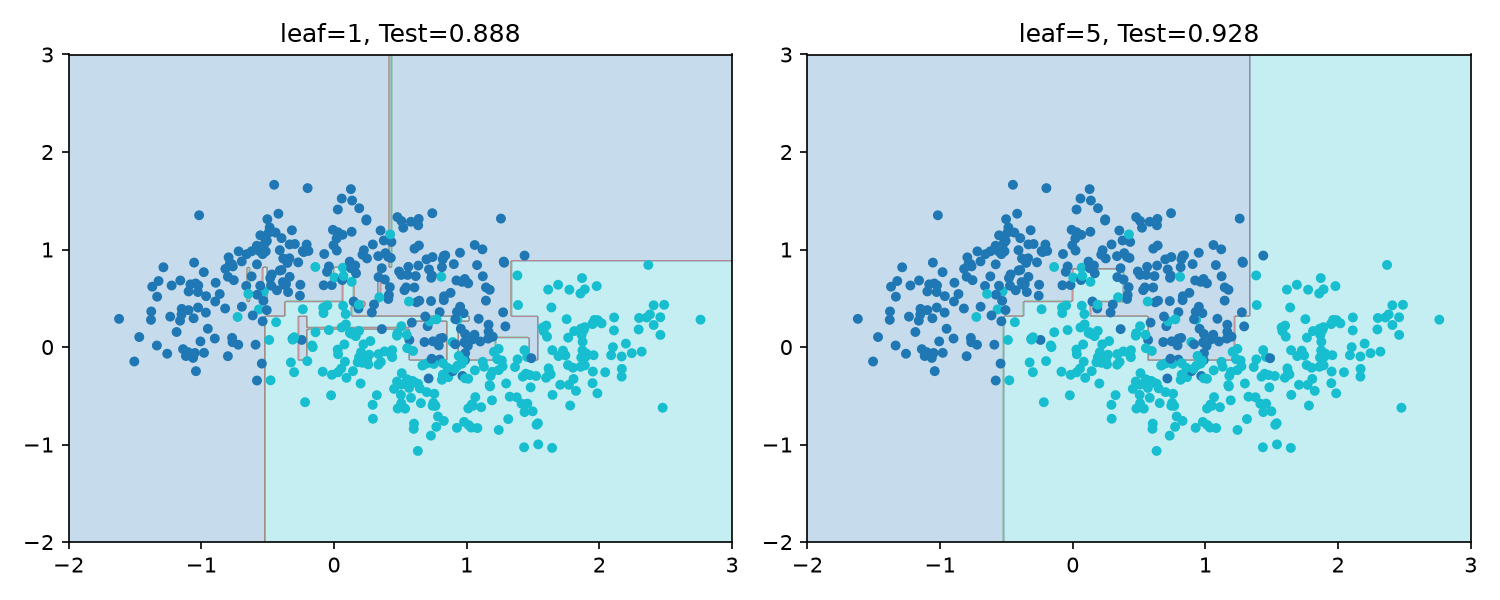
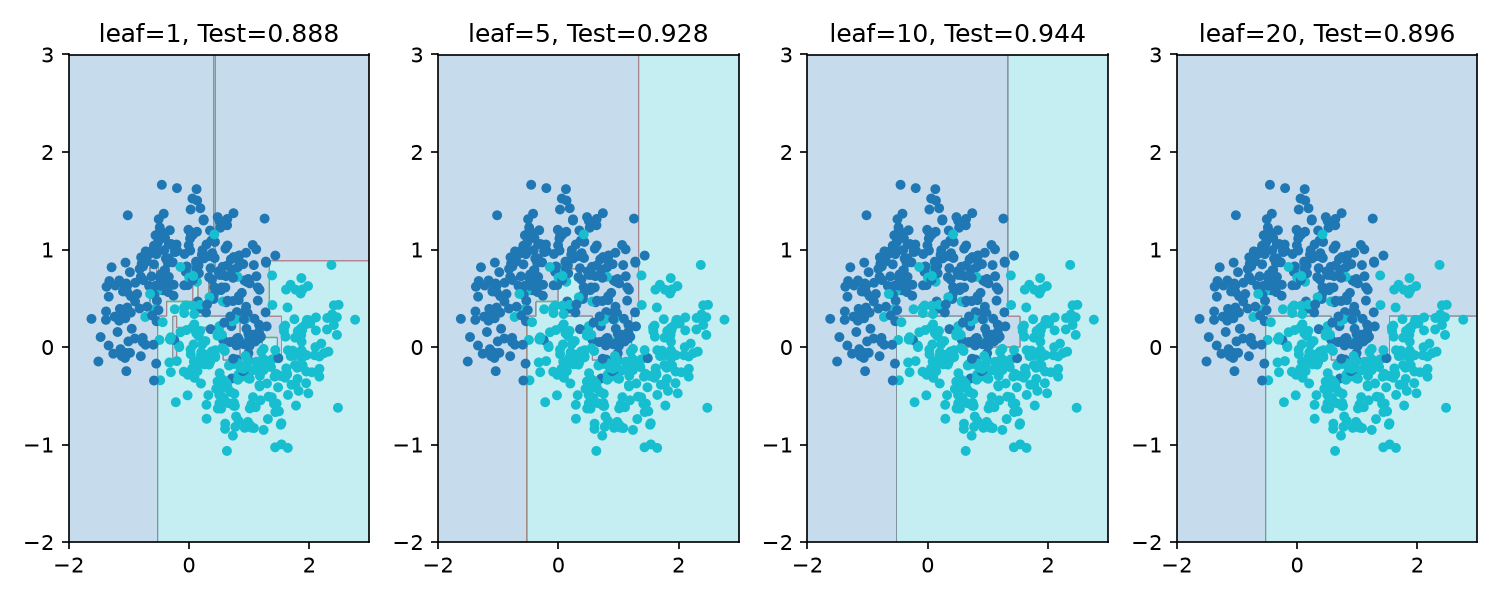
2_6 erldeigt

diff --git a/exercises/02_supervised_learning/exercise_2_6_tree_moons.py b/exercises/02_supervised_learning/exercise_2_6_tree_moons.py
@@ -1,33 +1,66 @@
-"""Exercise 2.6: Entscheidungsbaum auf Moons.
+"""Exercise 2.6: 
+    Recall the moons example from Section 1.3 and use a DecisionTreeClassifier 
+    classification to distinguish the clusters and plot the decision splits.
 
-Aufgabenstellung: Klassifiziere die Moons mit DecisionTreeClassifier, plotte die
-Entscheidungsregionen und untersuche den Einfluss von min_samples_leaf = 5.
+    Play around with the parameters, e.g. min_samples_leaf = 5 and see how 
+    this influences the score for a test set.
+
 
 Aufruf: pdm run python exercises/02_supervised_learning/exercise_2_6_tree_moons.py
+Ergebnisse: exercise 2_6
 """
 
 import os
 from pathlib import Path
-os.environ["MPLBACKEND"] = "Agg"; os.environ["MPLCONFIGDIR"] = str(Path("results/.matplotlib").resolve())
+
+os.environ["MPLBACKEND"] = "Agg"
+os.environ["MPLCONFIGDIR"] = str(Path("results/.matplotlib").resolve())
+
 import matplotlib.pyplot as plt
 import numpy as np
 from sklearn.datasets import make_moons
 from sklearn.model_selection import train_test_split
 from sklearn.tree import DecisionTreeClassifier
 
-RESULTS = Path("results/exercise_2_6"); SEED = 6020
+RESULTS = Path("results/exercise_2_6")
+SEED = 6020
 
 
 def main():
-    RESULTS.mkdir(parents=True, exist_ok=True); data, labels = make_moons(n_samples=500, noise=0.30, random_state=SEED)
-    train_x, test_x, train_y, test_y = train_test_split(data, labels, stratify=labels, random_state=SEED)
-    grid = np.linspace(-2, 3, 300); xx, yy = np.meshgrid(grid, grid); fig, axes = plt.subplots(1, 2, figsize=(10, 4))
-    for axis, leaf in zip(axes, (1, 5)):
-        model = DecisionTreeClassifier(min_samples_leaf=leaf, random_state=SEED).fit(train_x, train_y)
-        score = model.score(test_x, test_y); print(f"min_samples_leaf={leaf}: Test-Accuracy = {score:.3f}")
-        axis.contourf(xx, yy, model.predict(np.c_[xx.ravel(), yy.ravel()]).reshape(xx.shape), alpha=.25, cmap="tab10")
-        axis.scatter(data[:, 0], data[:, 1], c=labels, cmap="tab10", s=14); axis.set_title(f"leaf={leaf}, Test={score:.3f}")
-    fig.tight_layout(); fig.savefig(RESULTS / "trees.png", dpi=150); plt.close(fig)
+    RESULTS.mkdir(parents=True, exist_ok=True)
+
+    data, labels = make_moons(n_samples=500, noise=0.30, random_state=SEED)
+    train_x, test_x, train_y, test_y = train_test_split(
+        data,
+        labels,
+        stratify=labels,
+        random_state=SEED,
+    )
+
+    grid = np.linspace(-2, 3, 300)
+    xx, yy = np.meshgrid(grid, grid)
+    grid_points = np.c_[xx.ravel(), yy.ravel()]
+
+    fig, axes = plt.subplots(1, 4, figsize=(10, 4))
+    #print(len(axes))
+
+    for axis, leaf in zip(axes, (1, 5, 10, 20)):
+        model = DecisionTreeClassifier(min_samples_leaf=leaf, random_state=SEED)
+        model.fit(train_x, train_y)
+
+        score = model.score(test_x, test_y)
+        print(f"min_samples_leaf={leaf}: Test-Accuracy = {score:.3f}")
+
+        predictions = model.predict(grid_points).reshape(xx.shape)
+
+        axis.contourf(xx, yy, predictions, alpha=0.25, cmap="tab10")
+        axis.scatter(data[:, 0], data[:, 1], c=labels, cmap="tab10", s=14)
+        axis.set_title(f"leaf={leaf}, Test={score:.3f}")
+
+    fig.tight_layout()
+    fig.savefig(RESULTS / "trees.png", dpi=150)
+    plt.close(fig)
 
 
-if __name__ == "__main__": main()
+if __name__ == "__main__":
+    main()